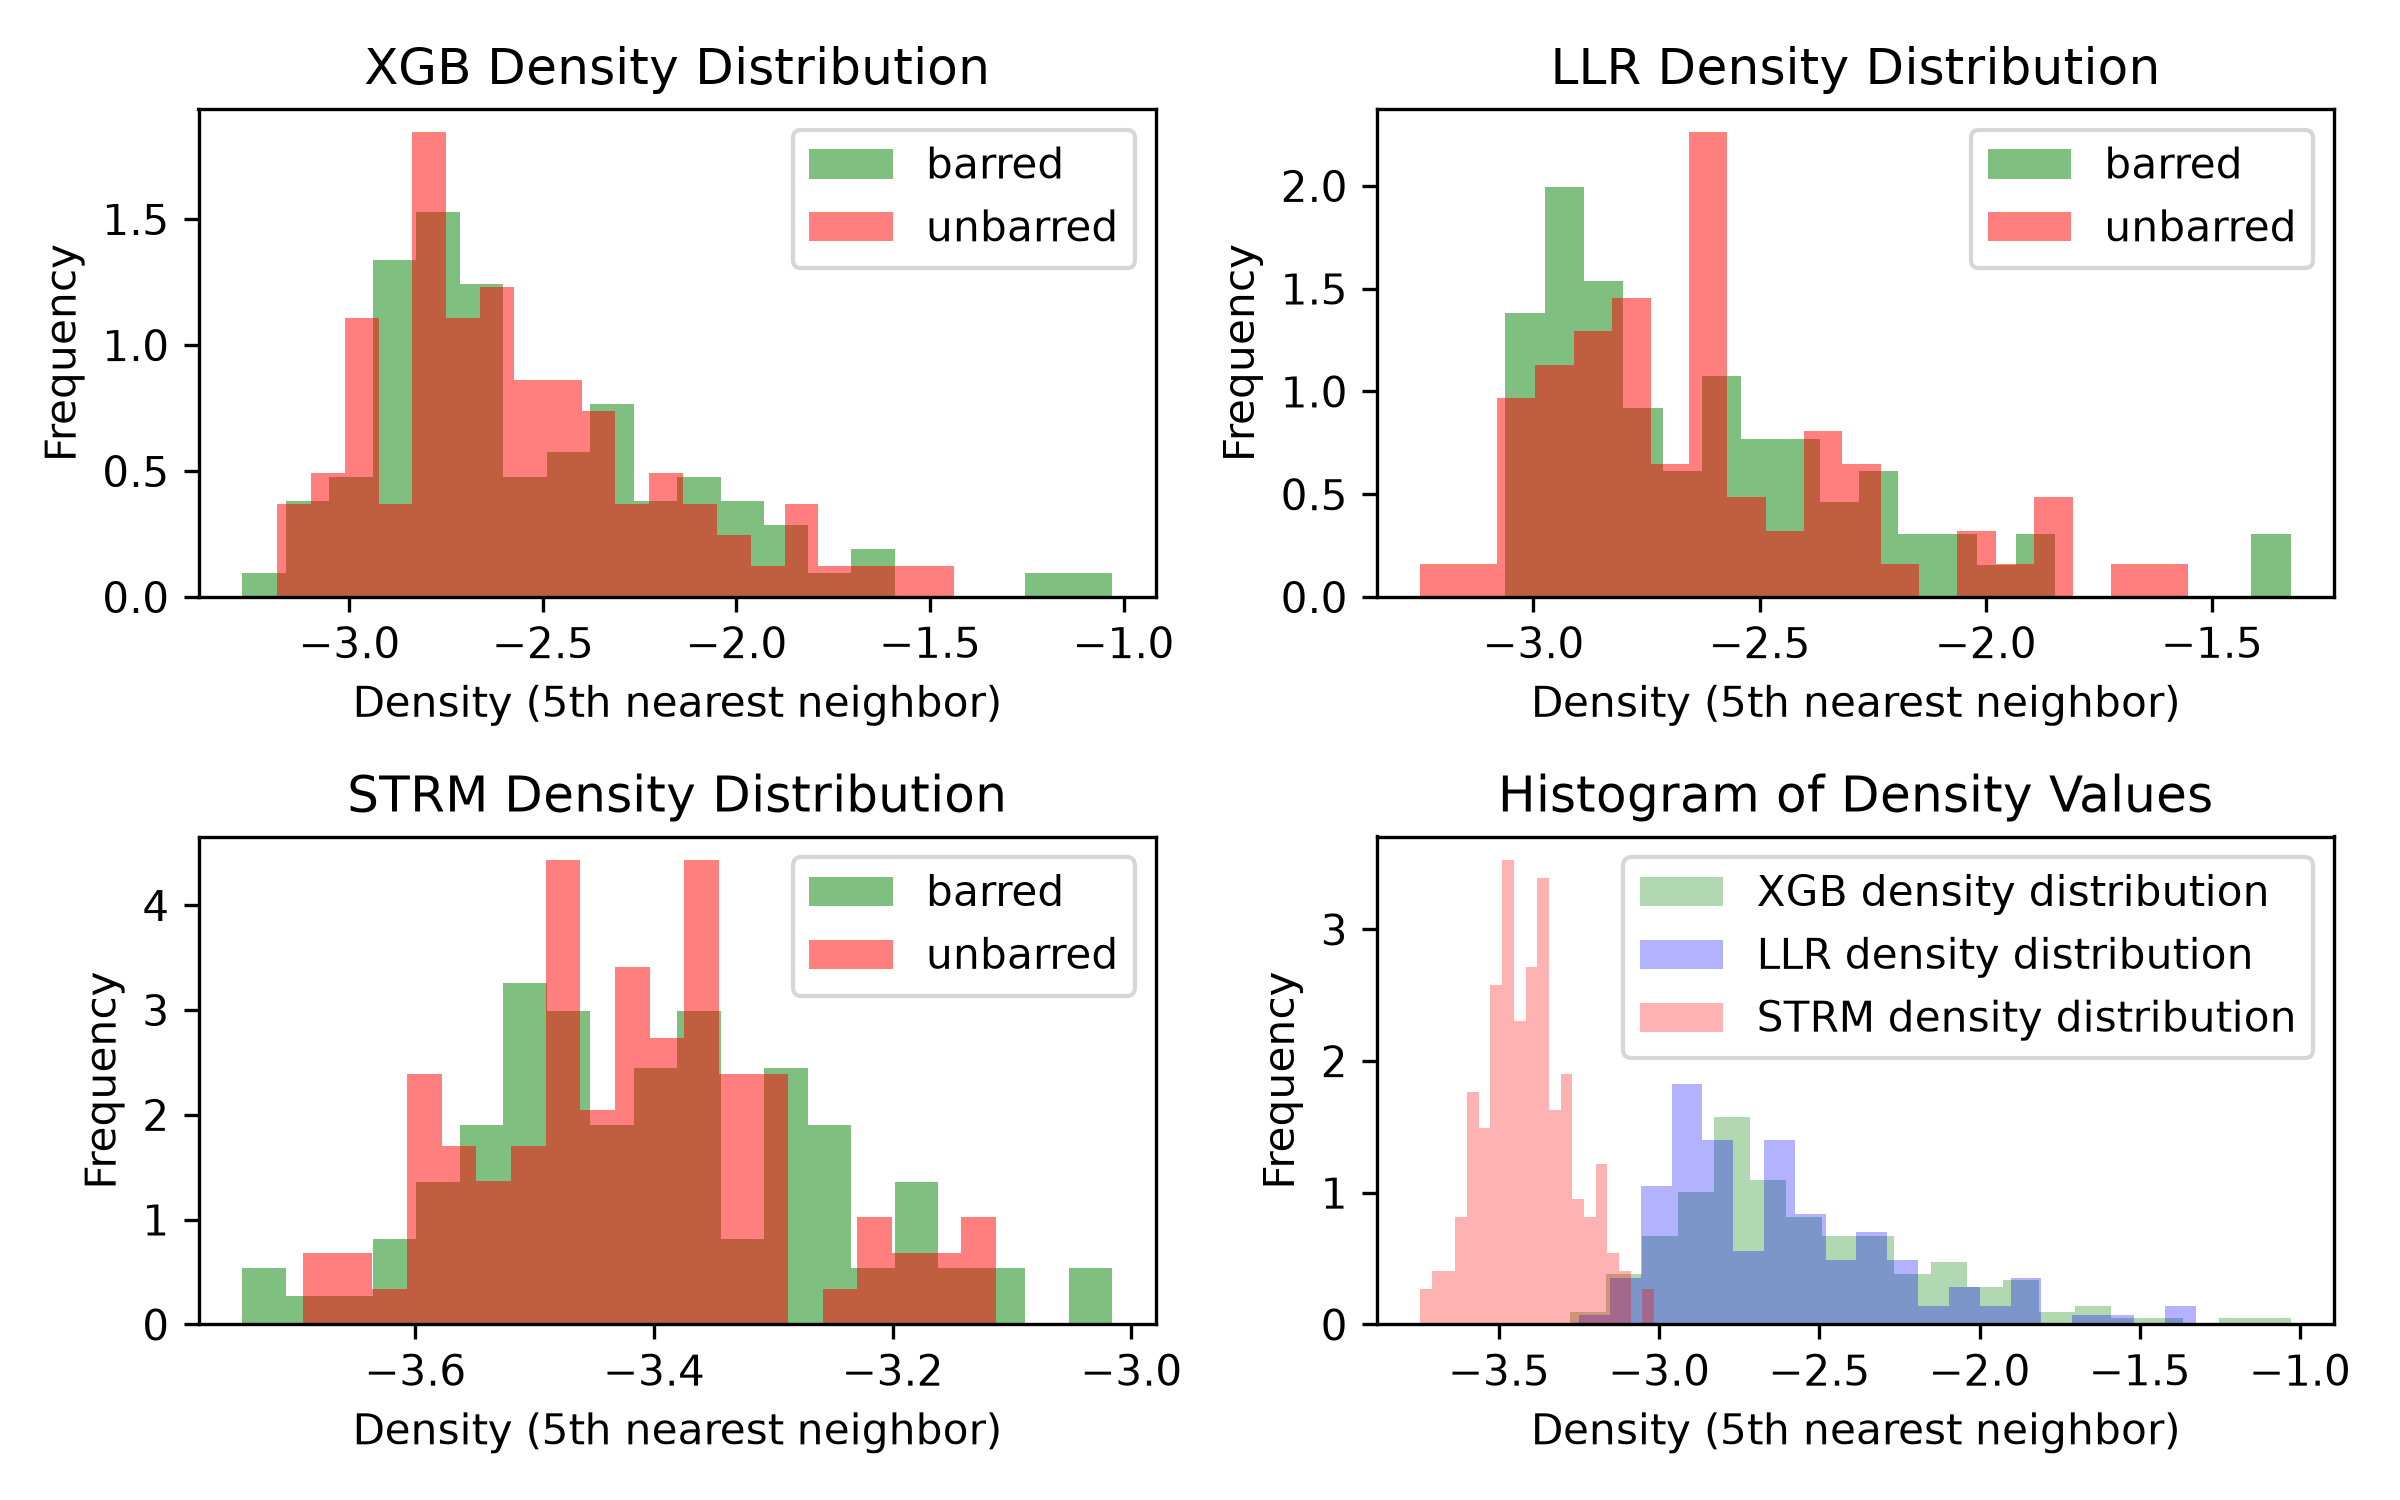
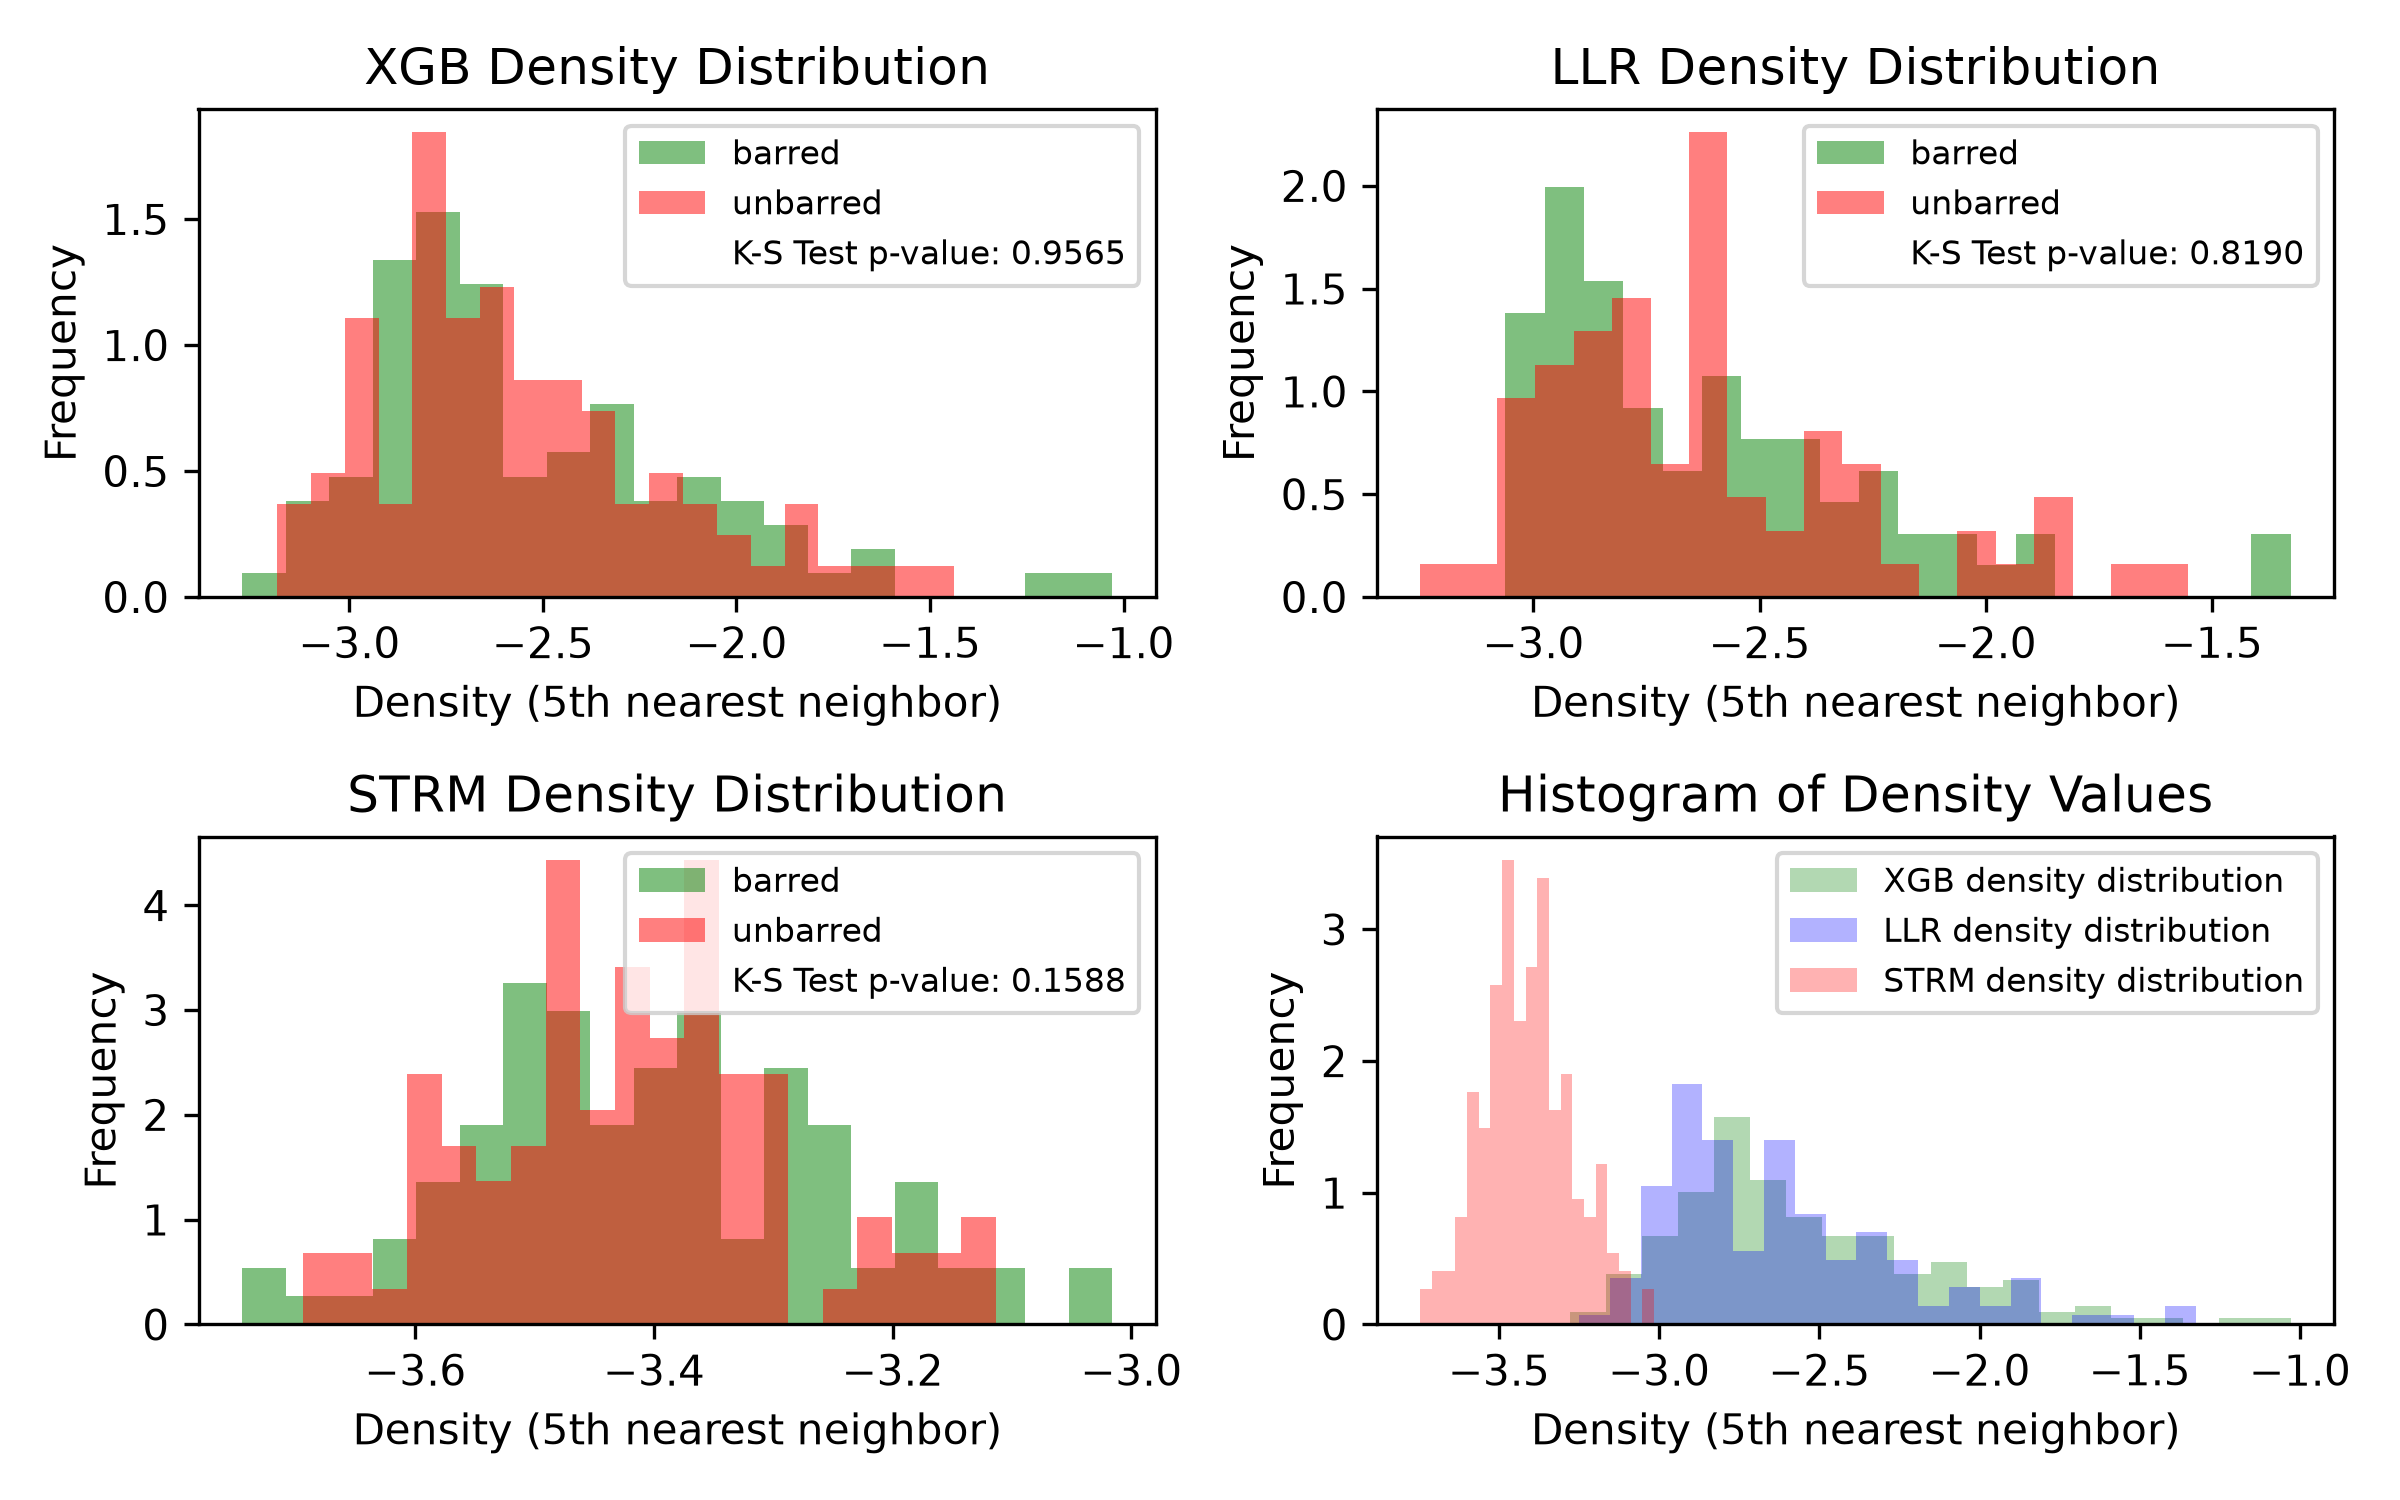
Update from IAA

diff --git a/code/ez_fig.py b/code/ez_fig.py
@@ -1,31 +1,48 @@
 import numpy as np
 import matplotlib.pyplot as plt
+import matplotlib.patches as mpatches
+from scipy.stats import kstest
 
 llr_dens = np.load('/data/TARA/code/llr_dens.npy', allow_pickle=True)
 xgb_dens = np.load('/data/TARA/code/xgb_dens.npy', allow_pickle=True)
 STRM_dens = np.load('/data/TARA/code/STRM_dens.npy', allow_pickle=True)
 
 fig, ax = plt.subplots(2,2, figsize=(8, 5))
+d, p = kstest(xgb_dens[0][xgb_dens[1] == 'barred'], xgb_dens[0][xgb_dens[1] == 'unbarred'])
 ax[0,0].hist(xgb_dens[0][xgb_dens[1] == 'barred'], bins=20, label='barred', color='green', alpha=0.5, density=True)
 ax[0,0].hist(xgb_dens[0][xgb_dens[1] == 'unbarred'], bins=20, label='unbarred', color='red', alpha=0.5, density=True)
+text_placeholder = mpatches.Rectangle((0, 0), 1, 1, fill=False, edgecolor='none', visible = False)
+handles, labels = ax[0,0].get_legend_handles_labels()
+handles.extend([text_placeholder])
+labels.extend([f'K-S Test p-value: {p:.4f}'])
 ax[0,0].set_title('XGB Density Distribution')
 ax[0,0].set_xlabel('Density (5th nearest neighbor)')
 ax[0,0].set_ylabel('Frequency')
-ax[0,0].legend(loc='upper right')
+ax[0,0].legend(handles = handles, labels = labels, loc='upper right', fontsize=8)
 
+d, p = kstest(llr_dens[0][llr_dens[1] == 'barred'], llr_dens[0][llr_dens[1] == 'unbarred'])
 ax[0,1].hist(llr_dens[0][llr_dens[1] == 'barred'], bins=20, label='barred', color='green', alpha=0.5, density=True)
 ax[0,1].hist(llr_dens[0][llr_dens[1] == 'unbarred'], bins=20, label='unbarred', color='red', alpha=0.5, density=True)
+text_placeholder = mpatches.Rectangle((0, 0), 1, 1, fill=False, edgecolor='none', visible = False)
+handles, labels = ax[0,1].get_legend_handles_labels()
+handles.extend([text_placeholder])
+labels.extend([f'K-S Test p-value: {p:.4f}'])
 ax[0,1].set_title('LLR Density Distribution')
 ax[0,1].set_xlabel('Density (5th nearest neighbor)')
 ax[0,1].set_ylabel('Frequency')
-ax[0,1].legend(loc='upper right')
+ax[0,1].legend(handles = handles, labels = labels, loc='upper right', fontsize=8)
 
+d, p = kstest(STRM_dens[0][STRM_dens[1] == 'barred'], STRM_dens[0][STRM_dens[1] == 'unbarred'])
 ax[1,0].hist(STRM_dens[0][STRM_dens[1] == 'barred'], bins=20, label='barred', color='green', alpha=0.5, density=True)
 ax[1,0].hist(STRM_dens[0][STRM_dens[1] == 'unbarred'], bins=20, label='unbarred', color='red', alpha=0.5, density=True)
+text_placeholder = mpatches.Rectangle((0, 0), 1, 1, fill=False, edgecolor='none', visible = False)
+handles, labels = ax[1,0].get_legend_handles_labels()
+handles.extend([text_placeholder])
+labels.extend([f'K-S Test p-value: {p:.4f}'])
 ax[1,0].set_title('STRM Density Distribution')
 ax[1,0].set_xlabel('Density (5th nearest neighbor)')
 ax[1,0].set_ylabel('Frequency')
-ax[1,0].legend(loc='upper right')
+ax[1,0].legend(handles = handles, labels = labels, loc='upper right', fontsize=8)
 
 ax[1,1].hist(xgb_dens[0][0], bins=20, label='XGB density distribution', color='green', alpha=0.3, density=True)
 ax[1,1].hist(llr_dens[0][0], bins=20, label='LLR density distribution', color='blue', alpha=0.3, density=True)
@@ -33,7 +50,7 @@ ax[1,1].hist(STRM_dens[0], bins=20, label='STRM density distribution', color='re
 ax[1,1].set_xlabel('Density (5th nearest neighbor)')
 ax[1,1].set_ylabel('Frequency')
 ax[1,1].set_title('Histogram of Density Values')
-ax[1,1].legend(loc='upper right')
+ax[1,1].legend(loc='upper right', fontsize=8)
 
 plt.tight_layout()
 plt.savefig(f'/data/TARA/fig/density_histogram.png', dpi=300)
